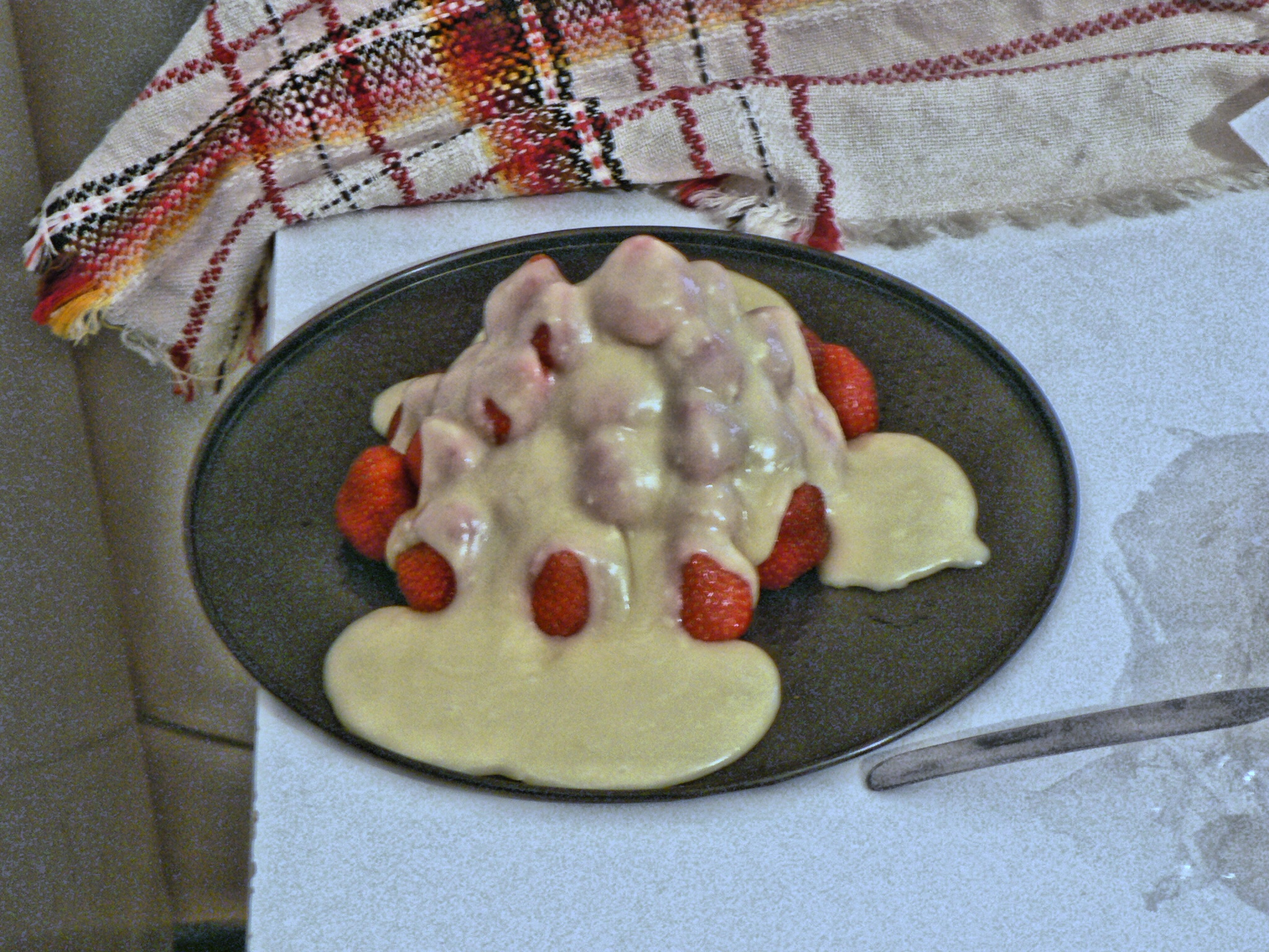
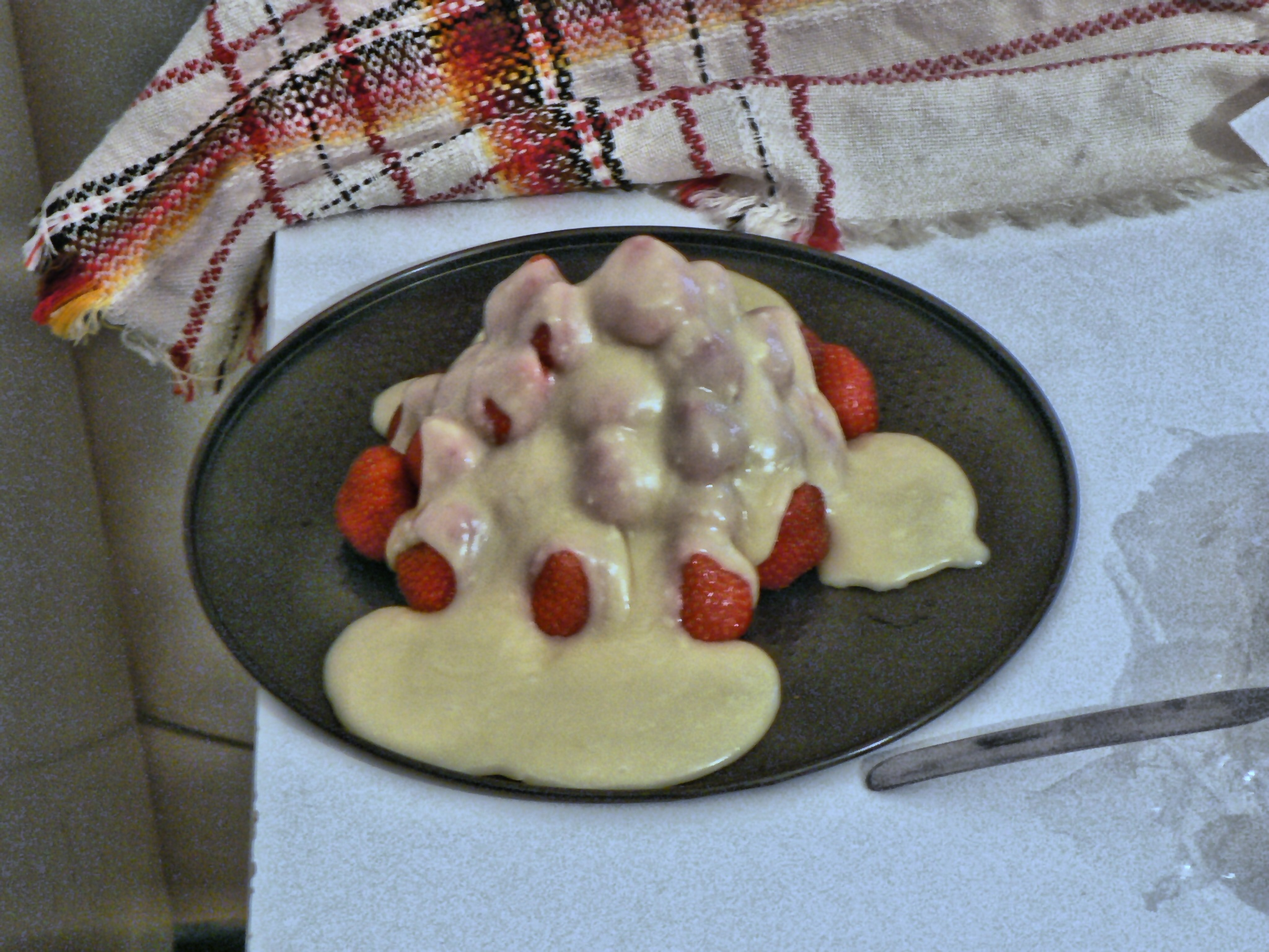
Added denoising to the pipeline

diff --git a/main.py b/main.py
@@ -57,6 +57,9 @@ def white_balance_gray_world(image):
 
     return white_balance(image, gain)
 
+def denoise(image, diameter=5, sigmaColor=50, sigmaSpace=50):
+    return cv2.bilateralFilter(image, diameter, sigmaColor, sigmaSpace)
+
 
 if __name__ == '__main__':
     # Parse command line arguments
@@ -73,6 +76,10 @@ if __name__ == '__main__':
     parser.add_argument('--white_balance_patch_width', type=int, default=10, help='Width of the white patch')
     parser.add_argument('--white_balance_patch_height', type=int, default=10, help='Height of the white patch')
     parser.add_argument('--white_balance_percentile', type=float, default=97.5, help='Percentile value for white balancing')
+    parser.add_argument('--skip_denoising', type=lambda x: bool(strtobool(x)), default=False, help='Skip the denoising step')
+    parser.add_argument('--denoise_diameter', type=int, default=5, help='Diameter for denoising')
+    parser.add_argument('--denoise_sigma_color', type=float, default=50.0, help='Sigma color for denoising')
+    parser.add_argument('--denoise_sigma_space', type=float, default=50.0, help='Sigma space for denoising')
     args = parser.parse_args()
 
     # Create output folder
@@ -90,10 +97,7 @@ if __name__ == '__main__':
             image = adjust_brightness_saturation(image, args.brightness_factor, args.saturation_factor)
 
             # Apply white balancing
-            if args.white_balance_type == 'gain':
-                gain = [float(x) for x in args.white_balance_gain.split()]
-                image = white_balance(image, gain)
-            elif args.white_balance_type == 'patch':
+            if args.white_balance_type == 'patch':
                 image = white_balance_patch(image, args.white_balance_patch_column, args.white_balance_patch_row, args.white_balance_patch_width, args.white_balance_patch_height)
             elif args.white_balance_type == 'percentile':
                 image = white_balance_percentile(image, args.white_balance_percentile)
@@ -103,6 +107,10 @@ if __name__ == '__main__':
             # Apply CLAHE
             if not args.skip_clahe:
                 image = local_contrast_enhancement(image, args.clahe_kernel_size, args.clahe_clip_limit)
+
+            # Apply denoising
+            if not args.skip_denoising:
+                image = denoise(image, diameter=args.denoise_diameter, sigmaColor=args.denoise_sigma_color, sigmaSpace=args.denoise_sigma_space)
 
             # Save output image
             output_path = os.path.join(output_folder, filename)

diff --git a/README.md b/README.md
@@ -1,35 +1,43 @@
-# ColorCorrectionScript
+# Image Enhancement Script
 
-Some of the results obtained using the script:
+This Python script enhances images through a multi-stage pipeline, improving their visual quality. The pipeline includes:
 
-<table>
+*   Brightness and saturation adjustment
+*   White balancing
+*   Contrast enhancement using CLAHE (Contrast Limited Adaptive Histogram Equalization)
+*   Denoising
+
+## Example Results
+
+The table below shows examples of the enhancement pipeline's effects on an image, demonstrating the impact of different parameter combinations.
+
+<table style="width:100%; text-align: center;">
   <tr>
-    <td>
-      <figure>
-        <img src="assets/alhambra1_b0_s1_none_noclahe.jpg" alt="Original" style="width: 400px; height: auto;">
-        <figcaption>Original</figcaption>
-      </figure>
-    </td>
-    <td>
-      <figure>
-        <img src="assets/alhambra1_b20_s1.5_percentile_noclahe.jpg" alt="B: 20, S: 1.5, CC: Percentile, No CLAHE" style="width: 400px; height: auto;">
-        <figcaption>B: 20, S: 1.5, CC: Percentile, No CLAHE</figcaption>
-      </figure>
-    </td>
+    <th style="text-align: center;">Original</th>
+    <th style="text-align: center;">Brightness: 20, Saturation: 1.5, White Balance: Percentile</th>
   </tr>
   <tr>
-    <td>
-      <figure>
-        <img src="assets/alhambra1_b20_s1.5_percentile_clahe.jpg" alt="B: 20, S: 1.5, CC: Percentile, w/ CLAHE" style="width: 400px; height: auto;">
-        <figcaption>B: 20, S: 1.5, CC: Percentile, w/ CLAHE</figcaption>
-      </figure>
-    </td>
-    <td>
-      <figure>
-        <img src="assets/alhambra1_b20_s1.5_grayworld_clahe.jpg" alt="B: 20, S: 1.5, CC: Gray World, w/ CLAHE" style="width: 400px; height: auto;">
-        <figcaption>B: 20, S: 1.5, CC: Gray World, w/ CLAHE</figcaption>
-      </figure>
-    </td>
+    <td><img src="assets/alhambra1_b0_s1_none_noclahe.jpg" alt="Original" width="400"></td>
+    <td><img src="assets/alhambra1_b20_s1.5_percentile_noclahe.jpg" alt="B: 20, S: 1.5, Percentile" width="400"></td>
   </tr>
+    <tr>
+    <th style="text-align: center;">Brightness: 20, Saturation: 1.5, White Balance: Percentile, with CLAHE</th>
+    <th style="text-align: center;">Brightness: 20, Saturation: 1.5, White Balance: Gray World, with CLAHE</th>
+  </tr>
+  <tr>
+    <td><img src="assets/alhambra1_b20_s1.5_percentile_clahe.jpg" alt="B: 20, S: 1.5, Percentile, w/ CLAHE" width="400"></td>
+    <td><img src="assets/alhambra1_b20_s1.5_grayworld_clahe.jpg" alt="B: 20, S: 1.5, Gray World, w/ CLAHE" width="400"></td>
+  </tr>
+    <tr>
+      <th colspan="2" style="text-align: center;">Final Enhanced Image</th>
+    </tr>
+        <tr>
+      <td colspan="2" style="text-align: center;"><img src="assets/alhambra_enhanced.jpg" alt="Final Enhanced Image" width="400"></td>
+    </tr>
 </table>
 
+The final enhanced image above was generated by further processing the "Gray World with CLAHE" image with the following parameters:
+
+*   Brightness factor: 10
+*   CLAHE kernel size: 20
+*   Denoising applied
